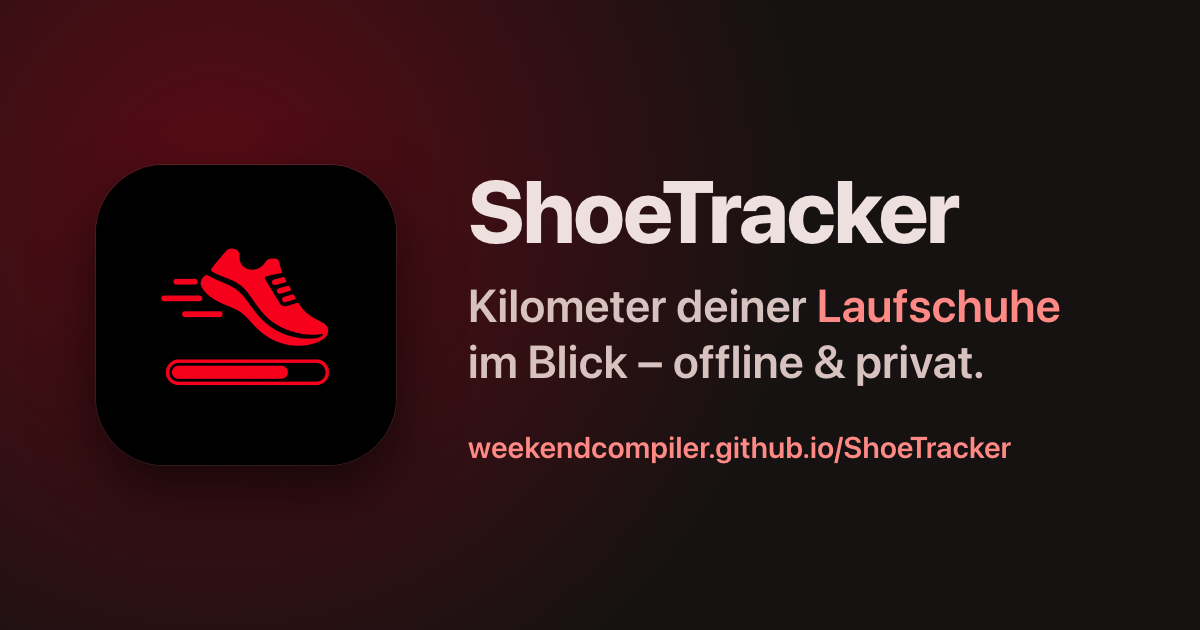
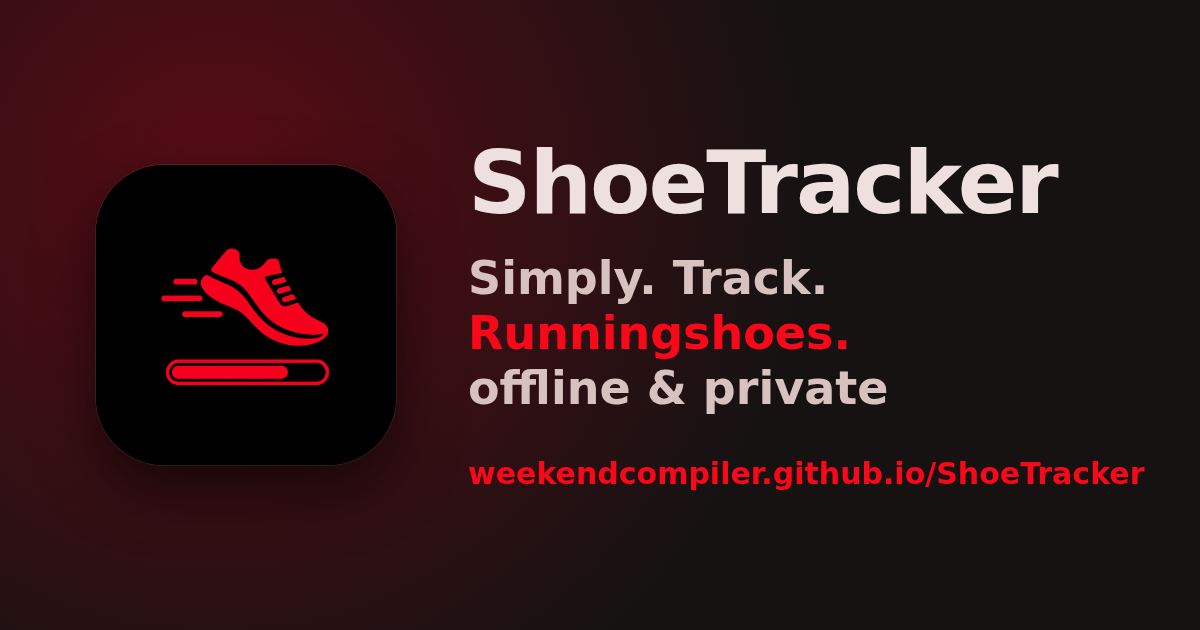
✨ og-image updated

Changed region(s): [[0.37, 0.2111, 0.8942, 0.6635], [0.37, 0.6937, 0.9558, 0.7841]]

diff --git a/tools/og-image.html b/tools/og-image.html
@@ -54,7 +54,7 @@ body {
   <div class="mark"><img src="../assets/icons/icon-512.png" alt=""></div>
   <div>
     <div class="name">ShoeTracker</div>
-    <p class="claim">Behalte den Verschleiß deiner <em>Laufschuhe</em><br>im Blick – einfach, offline &amp; privat.</p>
+    <p class="claim">Simply. Track. <em>Runningshoes.</em><br>offline &amp; private</p>
     <div class="url">weekendcompiler.github.io/ShoeTracker</div>
   </div>
 </body>

diff --git a/sw.js b/sw.js
@@ -5,7 +5,7 @@
  * installed apps keep serving the old cache.
  */
 
-const VERSION = 'v13';
+const VERSION = 'v14';
 const CACHE = 'shoetracker-' + VERSION;
 
 // INFO: './' is the entry point; a direct index.html request offline hits the navigation fallback.

diff --git a/README.md b/README.md
@@ -107,7 +107,9 @@ All icon variants (favicon, header, PWA, maskable, Apple Touch) are derived from
 - View both languages and both themes
 - Is `VERSION` in `sw.js` increased?
 
-
+---
+---
+---
 
 # ShoeTracker (deu)
 
